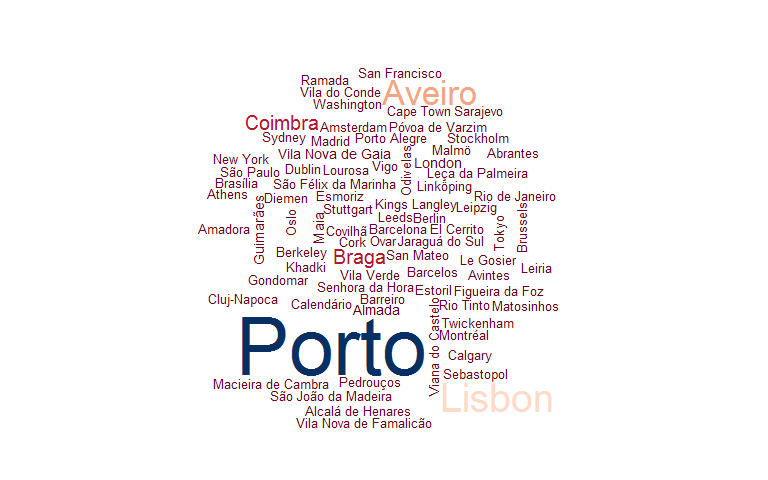
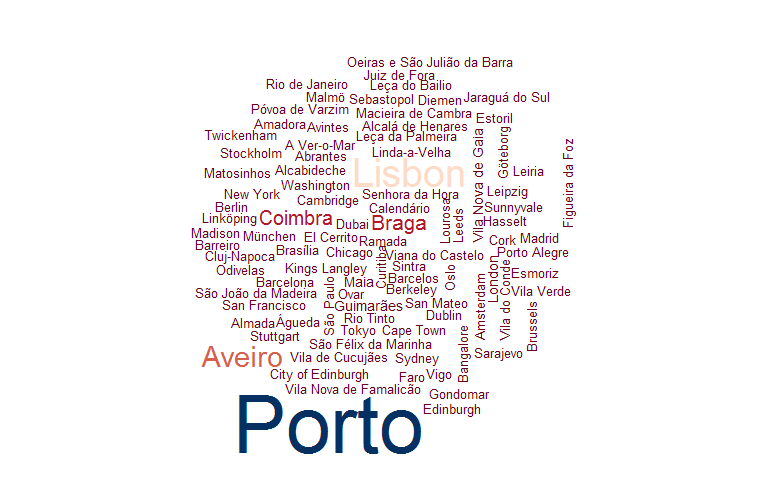
Update of README by 2018-04-26

Changed region(s): [[0.25, 0.125, 0.75, 0.9688]]

diff --git a/README.md b/README.md
@@ -14,13 +14,13 @@ You can also check here below some interesting information about our community, 
 
 ### DSPT Members' demography
 
-There are currently **820** active members/followers in our meetup page. They are from the **80** cities around the world shown here after.
+There are currently **1169** active members/followers in our meetup page. They are from the **95** cities around the world, as shown here after.
 
 ![](README_files/figure-markdown_github/visualizing1-1.png)
 
 ### We began in the north of Portugal, but we're expanding to other cities too.
 
-By **2017-12-05** we've already performed **19** meetups. Sessions have been held in several cities in Portugal, most of them in **Porto** and **Aveiro**.
+By **2018-04-26** we've already performed **29** meetups. Sessions have been held in several cities in Portugal, most of them in **Porto** and **Aveiro**.
 
 ![](README_files/figure-markdown_github/visualizing3-1.png)
 
